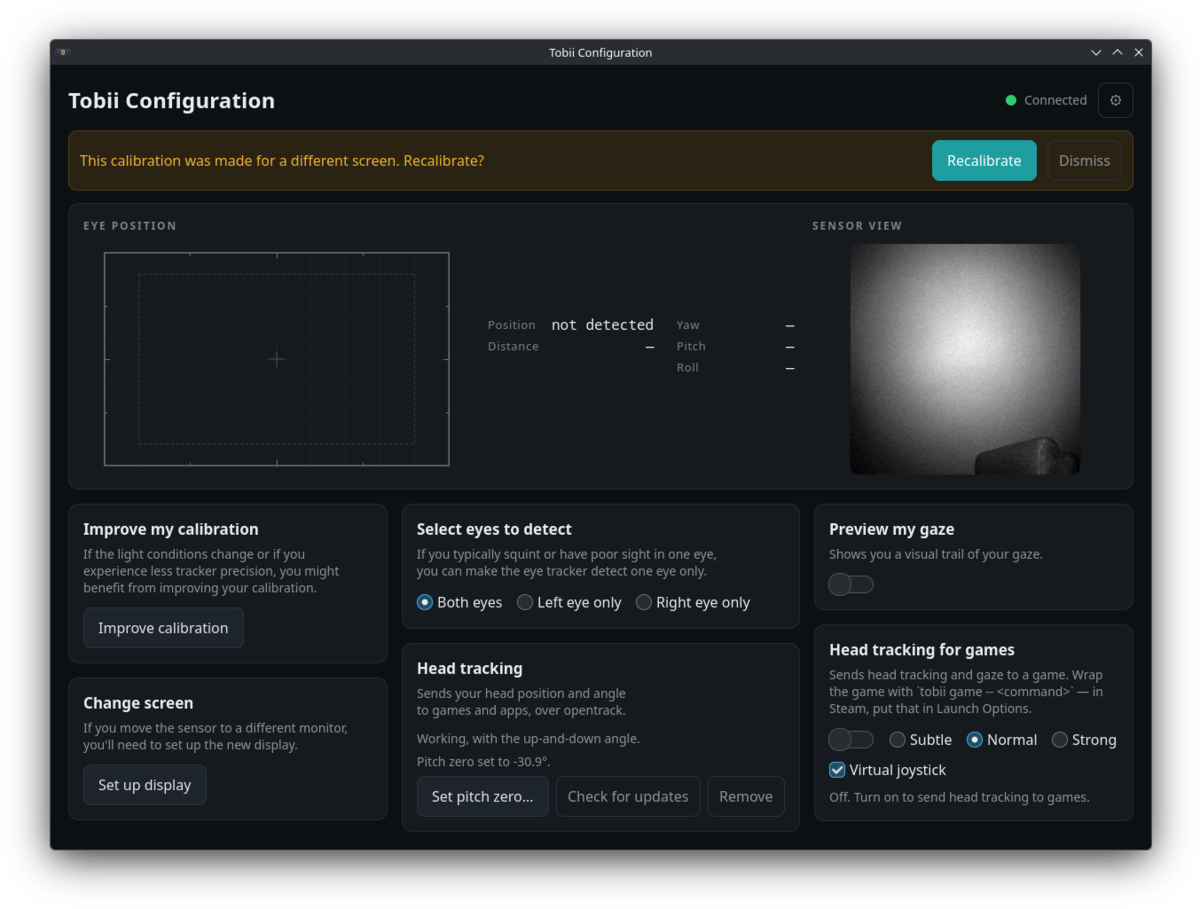
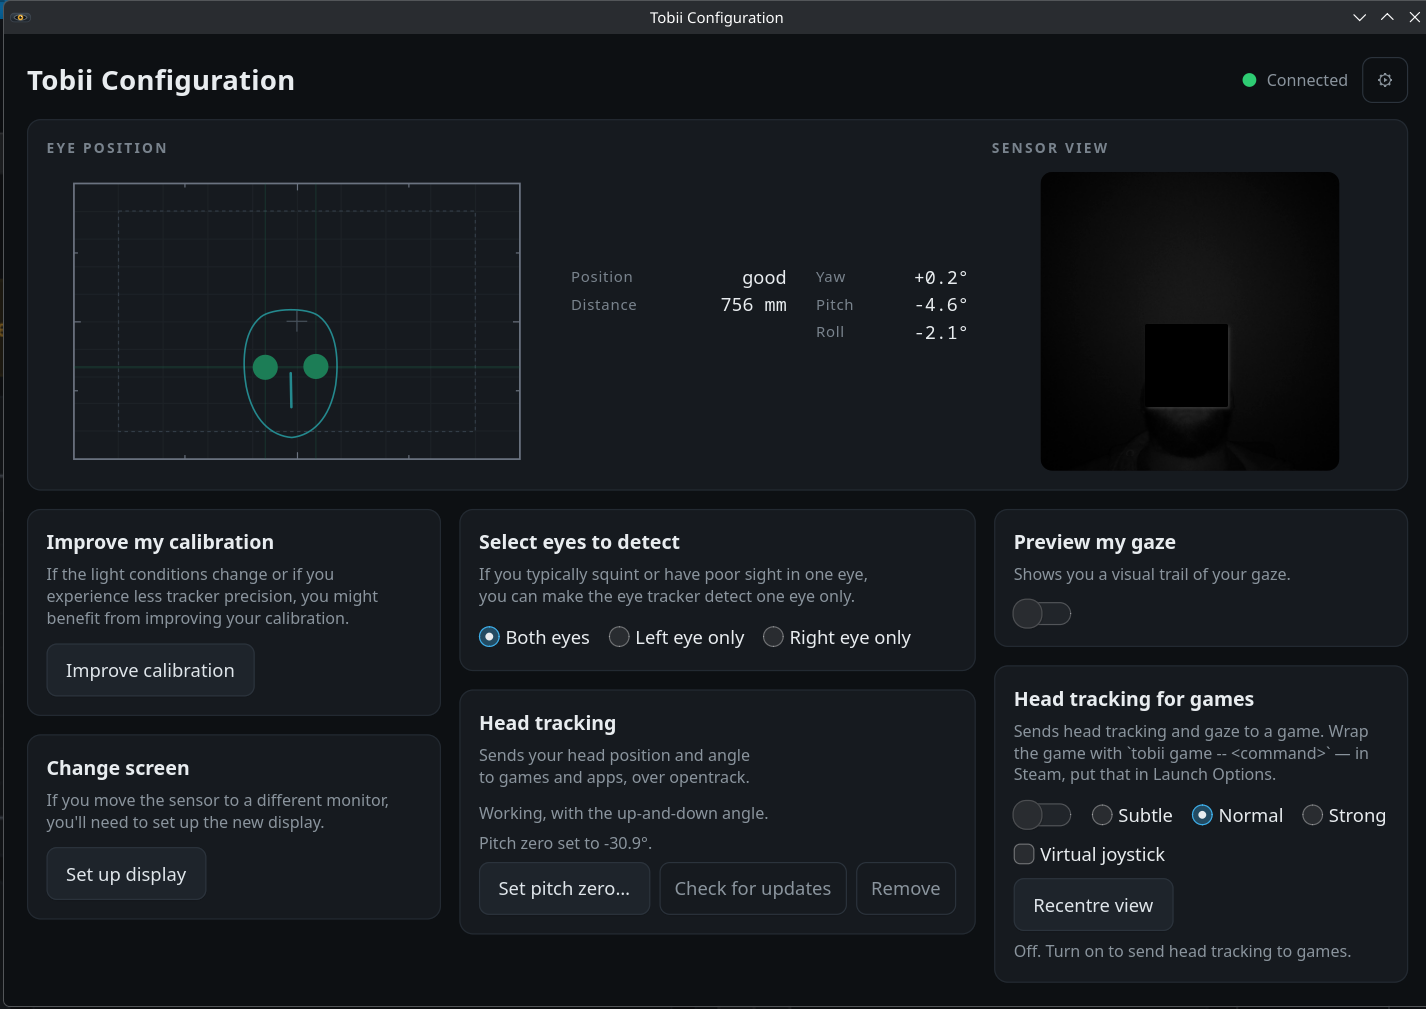
docs(readme): a hub screenshot with the tracker actually tracking
Replaces the placeholder-ish first attempt, which was taken with nobody in
front of the tracker and so showed "not detected" with an empty trackbox and a
stale recalibration banner. This one is the hub doing its job: both eyes in the
trackbox with the head drawn around them, position good at 756 mm, and the
yaw/pitch/roll readout live.

The face in the sensor view is masked in the image on purpose — that black
rectangle is not the infrared camera failing.

The alt text now describes what the picture shows, and the HTML comment above
it already specified exactly this, so the file and its spec agree.

Claude-Session: https://claude.ai/code/session_011d2MuQGq2ooTnTiDAMCuJT

diff --git a/README.md b/README.md
@@ -9,7 +9,7 @@ in Rust, with no Tobii software installed.
 [![Linux · Wayland](https://img.shields.io/badge/Linux-Wayland-informational)](#requirements)
 
 <!-- image: the hub, tracker connected, both eyes visible as dots in the trackbox, the head drawn around them, the readout showing position/distance/yaw/pitch/roll, the setting cards beneath -->
-<img src="docs/images/hub.png" alt="The TobiiLinux hub: the trackbox and infrared sensor view across the top, with the calibration, display, eye-selection, head-tracking and gaze-preview cards beneath" width="900">
+<img src="docs/images/hub.png" alt="The TobiiLinux hub with a tracker connected: both eyes as dots in the trackbox with the head drawn around them, a readout of position, distance, yaw, pitch and roll, the infrared sensor view, and the tracking setting cards beneath" width="900">
 
 Tobii ships no software for Linux: the device will not stream gaze, and it
 cannot be calibrated or told where your screen is. This project is the missing
